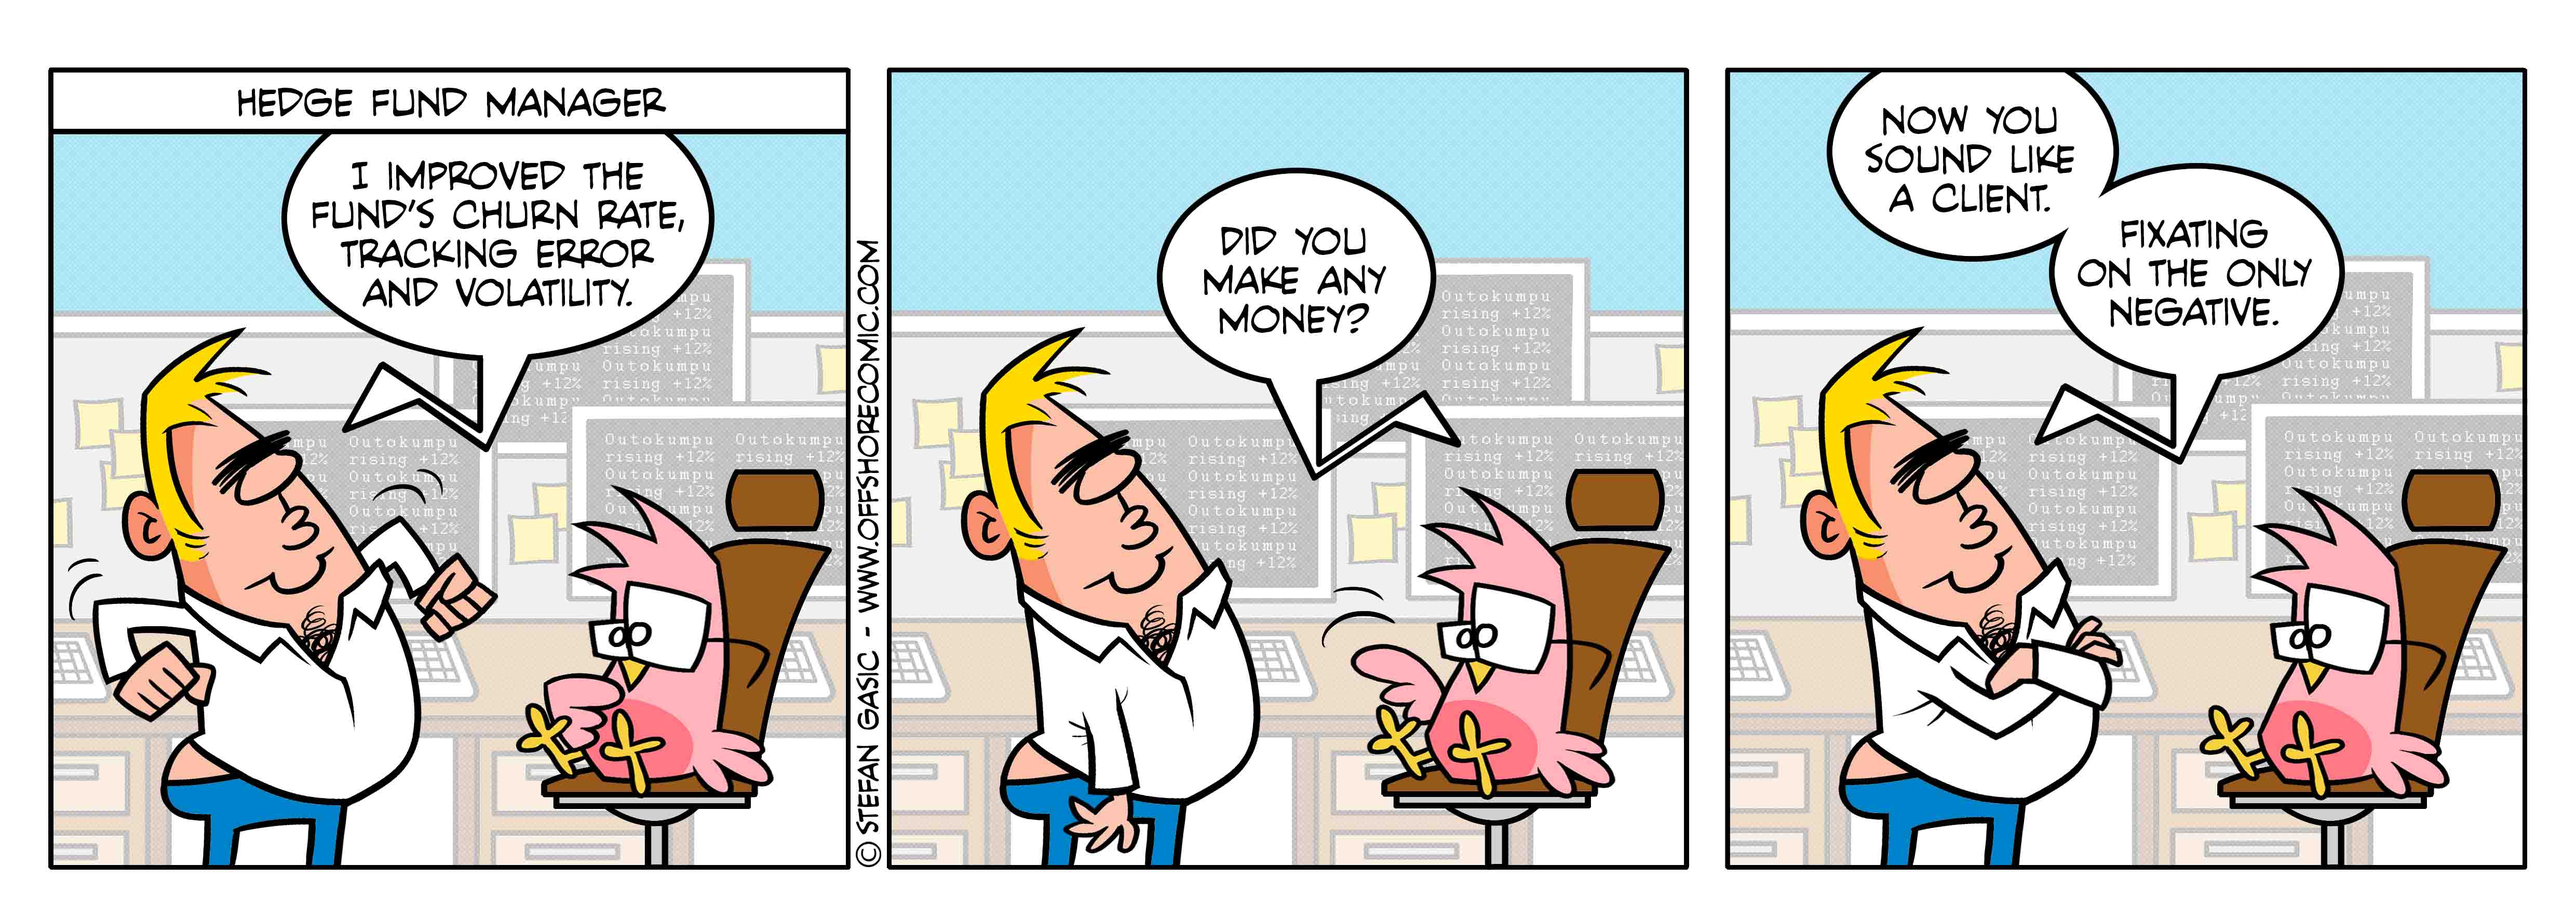
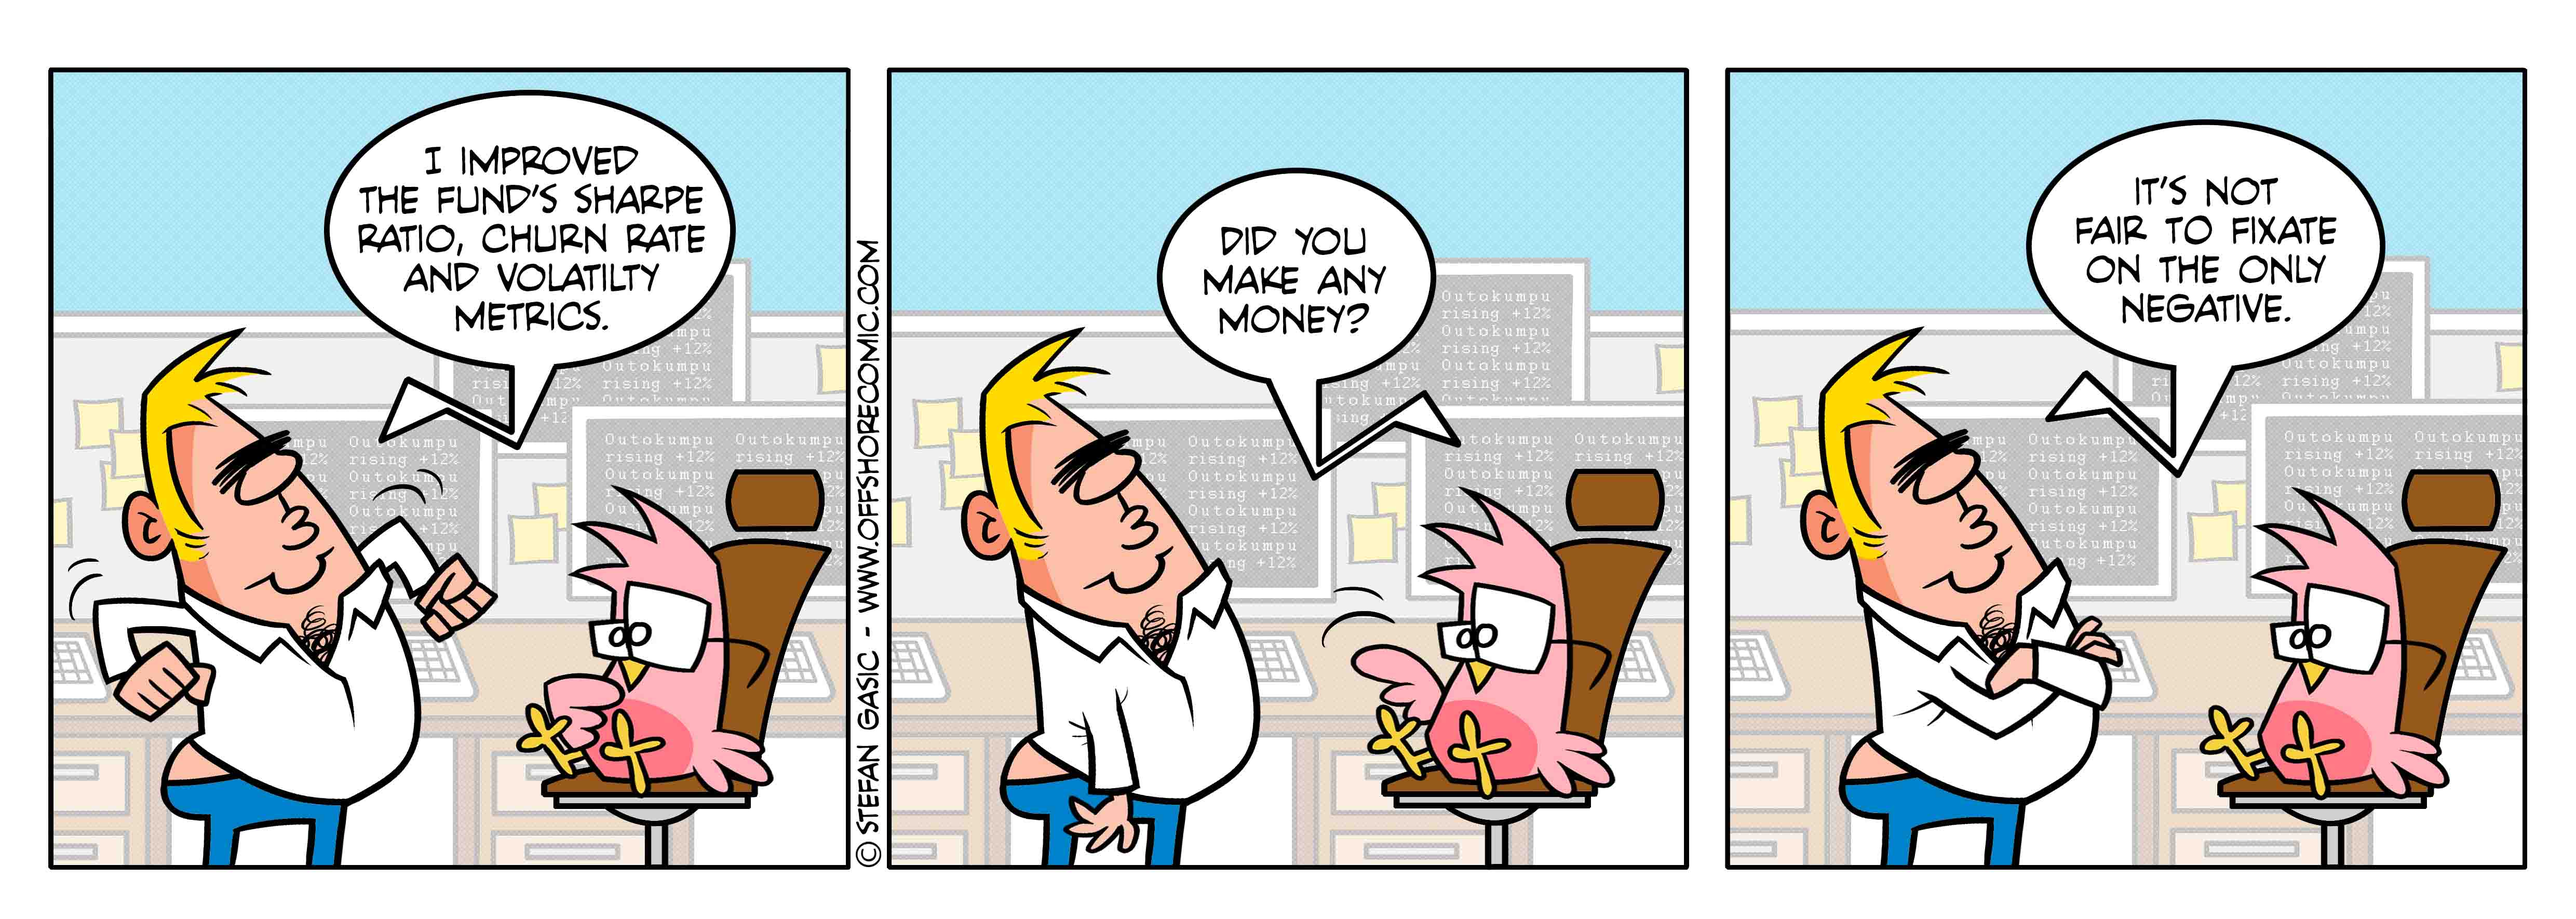
Added a new strip and updated the html and js codes accordingly.

Changed region(s): [[0.0, 0.0621, 0.3437, 0.4972], [0.6874, 0.0621, 0.9373, 0.5282]]

diff --git a/myscripts.js b/myscripts.js
@@ -1,4 +1,4 @@
-var Strips = ["images/S437.jpg","images/S436.jpg","images/S435.jpg","images/S434.jpg","images/S433.jpg","images/S432.jpg","images/S431.jpg","images/S430.jpg","images/S429.jpg","images/S428.jpg","images/S427.jpg","images/S426.jpg","images/S425.jpg","images/S424.jpg","images/S423.jpg","images/S422.jpg","images/S421.jpg","images/S420.jpg","images/S419.jpg","images/S418.jpg","images/S417.jpg","images/S416.jpg","images/S415.jpg","images/S414.jpg","images/S413.jpg","images/S412.jpg","images/S411.jpg","images/S410.jpg","images/S409.jpg","images/S408.jpg","images/S407.jpg","images/S406.jpg","images/S405.jpg","images/S404.jpg","images/S403.jpg","images/S402.jpg","images/S401.jpg","images/S400.jpg","images/S399.jpg","images/S398.jpg","images/S397.jpg","images/S396.jpg","images/S395.jpg","images/S394.jpg","images/S393.jpg","images/S392.jpg","images/S391.jpg","images/S390.jpg","images/S389.jpg","images/S388.jpg","images/S387.jpg","images/S386.jpg","images/S385.jpg","images/S384.jpg","images/S383.jpg","images/S382.jpg","images/S381.jpg","images/S380.jpg","images/S379.jpg","images/S378.jpg","images/S377.jpg","images/S376.jpg","images/S375.jpg","images/S374.jpg","images/S373.jpg","images/S372.jpg","images/S371.jpg","images/S370.jpg","images/S369.jpg","images/S368.jpg","images/S367.jpg","images/S366.jpg","images/S365.jpg","images/S364.jpg","images/S363.jpg","images/S362.jpg","images/S361.jpg","images/S360.jpg","images/S359.jpg","images/S358.jpg","images/S357.jpg","images/S356.jpg","images/S355.jpg","images/S354.jpg","images/S353.jpg","images/S352.jpg","images/S351.jpg","images/S350.jpg","images/S349.jpg","images/S348.jpg","images/S347.jpg","images/S346.jpg","images/S345.jpg","images/S344.jpg","images/S343.jpg","images/S342.jpg","images/S341.jpg","images/S340.jpg","images/S339.jpg","images/S338.jpg","images/S337.jpg","images/S336.jpg","images/S335.jpg","images/S334.jpg","images/S333.jpg","images/S332.jpg","images/S331.jpg","images/S330.jpg","images/S329.jpg","images/S328.jpg","images/S327.jpg","images/S326.jpg","images/S325.jpg","images/S324.jpg","images/S323.jpg","images/S322.jpg","images/S321.jpg","images/S320.jpg","images/S319.jpg","images/S318.jpg","images/S317.jpg","images/S316.jpg","images/S315.jpg","images/S314.jpg","images/S313.jpg","images/S312.jpg","images/S311.jpg","images/S310.jpg","images/S309.jpg","images/S308.jpg","images/S307.jpg","images/S306.jpg","images/S305.jpg","images/S304.jpg","images/S303.jpg","images/S302.jpg","images/S301.jpg","images/S300.jpg","images/S299.jpg","images/S298.jpg","images/S297.jpg","images/S296.jpg","images/S295.jpg","images/S294.jpg","images/S293.jpg","images/S292.jpg","images/S291.jpg","images/S290.jpg","images/S289.jpg","images/S288.jpg","images/S287.jpg","images/S286.jpg","images/S285.jpg","images/S284.jpg","images/S283.jpg","images/S282.jpg","images/S281.jpg","images/S280.jpg","images/S279.jpg","images/S278.jpg","images/S277.jpg","images/S276.jpg","images/S275.jpg","images/S274.jpg","images/S273.jpg","images/S272.jpg","images/S271.jpg","images/S270.jpg","images/S269.jpg","images/S268.jpg","images/S267.jpg","images/S266.jpg","images/S265.jpg","images/S264.jpg","images/S263.jpg","images/S262.jpg","images/S261.jpg","images/S260.jpg","images/S259.jpg","images/S258.jpg","images/S257.jpg","images/S256.jpg","images/S255.jpg","images/S254.jpg","images/S253.jpg","images/S252.jpg","images/S251.jpg","images/S250.jpg","images/S249.jpg","images/S248.jpg","images/S247.jpg","images/S246.jpg","images/S245.jpg","images/S244.jpg","images/S243.jpg","images/S242.jpg","images/S241.jpg","images/S240.jpg","images/S239.jpg","images/S238.jpg","images/S237.jpg","images/S236.jpg","images/S235.jpg","images/S234.jpg","images/S233.jpg","images/S232.jpg","images/S231.jpg","images/S230.jpg","images/S229.jpg","images/S228.jpg","images/S227.jpg","images/S226.jpg","images/S225.jpg","images/S224.jpg","images/S223.jpg","images/S222.jpg","images/S221.jpg","images/S220.jpg","images/S219.jpg","images/S218.jpg","images/S217.jpg","images/S216.jpg","images/S215.jpg","images/S214.jpg","images/S213.jpg","images/S212.jpg","images/S211.jpg","images/S210.jpg","images/S209.jpg","images/S208.jpg","images/S207.jpg","images/S206.jpg","images/S205.jpg","images/S204.jpg","images/S203.jpg","images/S202.jpg","images/S201.jpg","images/S200.jpg","images/S199.jpg","images/S198.jpg","images/S197.jpg","images/S196.jpg","images/S195.jpg","images/S194.jpg","images/S193.jpg","images/S192.jpg","images/S191.jpg","images/S190.jpg","images/S189.jpg","images/S188.jpg","images/S187.jpg","images/S186.jpg","images/S185.jpg","images/S184.jpg","images/S183.jpg","images/S182.jpg","images/S181.jpg","images/S180.jpg","images/S179.jpg","images/S178.jpg","images/S177.jpg","images/S176.jpg","images/S175.jpg","images/S174.jpg","images/S173.jpg","images/S172.jpg","images/S171.jpg","images/S170.jpg","images/S169.jpg","images/S168.jpg","images/S167.jpg","images/S166.jpg","images/S165.jpg","images/S164.jpg","images/S163.jpg","images/S162.jpg","images/S161.jpg","images/S160.jpg","images/S159.jpg","images/S158.jpg","images/S157.jpg","images/S156.jpg","images/S155.jpg","images/S154.jpg","images/S153.jpg","images/S152.jpg","images/S151.jpg","images/S150.jpg","images/S149.jpg","images/S148.jpg","images/S147.jpg","images/S146.jpg","images/S145.jpg","images/S144.jpg","images/S143.jpg","images/S142.jpg","images/S141.jpg","images/S140.jpg","images/S139.jpg","images/S138.jpg","images/S137.jpg","images/S136.jpg","images/S135.jpg","images/S134.jpg","images/S133.jpg","images/S132.jpg","images/S131.jpg","images/S130.jpg","images/S129.jpg","images/S128.jpg","images/S127.jpg","images/S126.jpg","images/S125.jpg","images/S124.jpg","images/S123.jpg","images/S122.jpg","images/S121.jpg","images/S120.jpg","images/S119.jpg","images/S118.jpg","images/S117.jpg","images/S116.jpg","images/S115.jpg","images/S114.jpg","images/S113.jpg","images/S112.jpg","images/S111.jpg","images/S110.jpg","images/S109.jpg","images/S108.jpg","images/S107.jpg","images/S106.jpg","images/S105.jpg","images/S104.jpg","images/S103.jpg","images/S102.jpg","images/S101.jpg","images/S100.jpg","images/S99.jpg","images/S98.jpg","images/S97.jpg","images/S96.jpg","images/S95.jpg","images/S94.jpg","images/S93.jpg","images/S92.jpg","images/S91.jpg","images/S90.jpg","images/S89.jpg","images/S88.jpg","images/S87.jpg","images/S86.jpg","images/S85.jpg","images/S84.jpg","images/S83.jpg","images/S82.jpg","images/S81.jpg","images/S80.jpg","images/S79.jpg","images/S78.jpg","images/S77.jpg","images/S76.jpg","images/S75.jpg","images/S74.jpg","images/S73.jpg","images/S72.jpg","images/S71.jpg","images/S70.jpg","images/S69.jpg","images/S68.jpg","images/S67.jpg","images/S66.jpg","images/S65.jpg","images/S64.jpg","images/S63.jpg","images/S62.jpg","images/S61.jpg","images/S60.jpg","images/S59.jpg","images/S58.jpg","images/S57.jpg","images/S56.jpg","images/S55.jpg","images/S54.jpg","images/S53.jpg","images/S52.jpg","images/S51.jpg","images/S50.jpg","images/S49.jpg","images/S48.jpg","images/S47.jpg","images/S46.jpg","images/S45.jpg","images/S44.jpg","images/S43.jpg","images/S42.jpg","images/S41.jpg","images/S40.jpg","images/S39.jpg","images/S38.jpg","images/S37.jpg","images/S36.jpg","images/S35.jpg","images/S34.jpg","images/S33.jpg","images/S32.jpg","images/S31.jpg","images/S30.jpg","images/S29.jpg","images/S28.jpg","images/S27.jpg","images/S26.jpg","images/S25.jpg","images/S24.jpg","images/S23.jpg","images/S22.jpg","images/S21.jpg","images/S20.jpg","images/S19.jpg","images/S18.jpg","images/S17.jpg","images/S16.jpg","images/S15.jpg","images/S14.jpg","images/S13.jpg","images/S12.jpg","images/S11.jpg","images/S10.jpg","images/S9.jpg","images/S8.jpg","images/S7.jpg","images/S6.jpg","images/S5.jpg","images/S4.jpg","images/S3.jpg","images/S2.jpg","images/S1.jpg"];
+var Strips = ["images/S438.jpg","images/S437.jpg","images/S436.jpg","images/S435.jpg","images/S434.jpg","images/S433.jpg","images/S432.jpg","images/S431.jpg","images/S430.jpg","images/S429.jpg","images/S428.jpg","images/S427.jpg","images/S426.jpg","images/S425.jpg","images/S424.jpg","images/S423.jpg","images/S422.jpg","images/S421.jpg","images/S420.jpg","images/S419.jpg","images/S418.jpg","images/S417.jpg","images/S416.jpg","images/S415.jpg","images/S414.jpg","images/S413.jpg","images/S412.jpg","images/S411.jpg","images/S410.jpg","images/S409.jpg","images/S408.jpg","images/S407.jpg","images/S406.jpg","images/S405.jpg","images/S404.jpg","images/S403.jpg","images/S402.jpg","images/S401.jpg","images/S400.jpg","images/S399.jpg","images/S398.jpg","images/S397.jpg","images/S396.jpg","images/S395.jpg","images/S394.jpg","images/S393.jpg","images/S392.jpg","images/S391.jpg","images/S390.jpg","images/S389.jpg","images/S388.jpg","images/S387.jpg","images/S386.jpg","images/S385.jpg","images/S384.jpg","images/S383.jpg","images/S382.jpg","images/S381.jpg","images/S380.jpg","images/S379.jpg","images/S378.jpg","images/S377.jpg","images/S376.jpg","images/S375.jpg","images/S374.jpg","images/S373.jpg","images/S372.jpg","images/S371.jpg","images/S370.jpg","images/S369.jpg","images/S368.jpg","images/S367.jpg","images/S366.jpg","images/S365.jpg","images/S364.jpg","images/S363.jpg","images/S362.jpg","images/S361.jpg","images/S360.jpg","images/S359.jpg","images/S358.jpg","images/S357.jpg","images/S356.jpg","images/S355.jpg","images/S354.jpg","images/S353.jpg","images/S352.jpg","images/S351.jpg","images/S350.jpg","images/S349.jpg","images/S348.jpg","images/S347.jpg","images/S346.jpg","images/S345.jpg","images/S344.jpg","images/S343.jpg","images/S342.jpg","images/S341.jpg","images/S340.jpg","images/S339.jpg","images/S338.jpg","images/S337.jpg","images/S336.jpg","images/S335.jpg","images/S334.jpg","images/S333.jpg","images/S332.jpg","images/S331.jpg","images/S330.jpg","images/S329.jpg","images/S328.jpg","images/S327.jpg","images/S326.jpg","images/S325.jpg","images/S324.jpg","images/S323.jpg","images/S322.jpg","images/S321.jpg","images/S320.jpg","images/S319.jpg","images/S318.jpg","images/S317.jpg","images/S316.jpg","images/S315.jpg","images/S314.jpg","images/S313.jpg","images/S312.jpg","images/S311.jpg","images/S310.jpg","images/S309.jpg","images/S308.jpg","images/S307.jpg","images/S306.jpg","images/S305.jpg","images/S304.jpg","images/S303.jpg","images/S302.jpg","images/S301.jpg","images/S300.jpg","images/S299.jpg","images/S298.jpg","images/S297.jpg","images/S296.jpg","images/S295.jpg","images/S294.jpg","images/S293.jpg","images/S292.jpg","images/S291.jpg","images/S290.jpg","images/S289.jpg","images/S288.jpg","images/S287.jpg","images/S286.jpg","images/S285.jpg","images/S284.jpg","images/S283.jpg","images/S282.jpg","images/S281.jpg","images/S280.jpg","images/S279.jpg","images/S278.jpg","images/S277.jpg","images/S276.jpg","images/S275.jpg","images/S274.jpg","images/S273.jpg","images/S272.jpg","images/S271.jpg","images/S270.jpg","images/S269.jpg","images/S268.jpg","images/S267.jpg","images/S266.jpg","images/S265.jpg","images/S264.jpg","images/S263.jpg","images/S262.jpg","images/S261.jpg","images/S260.jpg","images/S259.jpg","images/S258.jpg","images/S257.jpg","images/S256.jpg","images/S255.jpg","images/S254.jpg","images/S253.jpg","images/S252.jpg","images/S251.jpg","images/S250.jpg","images/S249.jpg","images/S248.jpg","images/S247.jpg","images/S246.jpg","images/S245.jpg","images/S244.jpg","images/S243.jpg","images/S242.jpg","images/S241.jpg","images/S240.jpg","images/S239.jpg","images/S238.jpg","images/S237.jpg","images/S236.jpg","images/S235.jpg","images/S234.jpg","images/S233.jpg","images/S232.jpg","images/S231.jpg","images/S230.jpg","images/S229.jpg","images/S228.jpg","images/S227.jpg","images/S226.jpg","images/S225.jpg","images/S224.jpg","images/S223.jpg","images/S222.jpg","images/S221.jpg","images/S220.jpg","images/S219.jpg","images/S218.jpg","images/S217.jpg","images/S216.jpg","images/S215.jpg","images/S214.jpg","images/S213.jpg","images/S212.jpg","images/S211.jpg","images/S210.jpg","images/S209.jpg","images/S208.jpg","images/S207.jpg","images/S206.jpg","images/S205.jpg","images/S204.jpg","images/S203.jpg","images/S202.jpg","images/S201.jpg","images/S200.jpg","images/S199.jpg","images/S198.jpg","images/S197.jpg","images/S196.jpg","images/S195.jpg","images/S194.jpg","images/S193.jpg","images/S192.jpg","images/S191.jpg","images/S190.jpg","images/S189.jpg","images/S188.jpg","images/S187.jpg","images/S186.jpg","images/S185.jpg","images/S184.jpg","images/S183.jpg","images/S182.jpg","images/S181.jpg","images/S180.jpg","images/S179.jpg","images/S178.jpg","images/S177.jpg","images/S176.jpg","images/S175.jpg","images/S174.jpg","images/S173.jpg","images/S172.jpg","images/S171.jpg","images/S170.jpg","images/S169.jpg","images/S168.jpg","images/S167.jpg","images/S166.jpg","images/S165.jpg","images/S164.jpg","images/S163.jpg","images/S162.jpg","images/S161.jpg","images/S160.jpg","images/S159.jpg","images/S158.jpg","images/S157.jpg","images/S156.jpg","images/S155.jpg","images/S154.jpg","images/S153.jpg","images/S152.jpg","images/S151.jpg","images/S150.jpg","images/S149.jpg","images/S148.jpg","images/S147.jpg","images/S146.jpg","images/S145.jpg","images/S144.jpg","images/S143.jpg","images/S142.jpg","images/S141.jpg","images/S140.jpg","images/S139.jpg","images/S138.jpg","images/S137.jpg","images/S136.jpg","images/S135.jpg","images/S134.jpg","images/S133.jpg","images/S132.jpg","images/S131.jpg","images/S130.jpg","images/S129.jpg","images/S128.jpg","images/S127.jpg","images/S126.jpg","images/S125.jpg","images/S124.jpg","images/S123.jpg","images/S122.jpg","images/S121.jpg","images/S120.jpg","images/S119.jpg","images/S118.jpg","images/S117.jpg","images/S116.jpg","images/S115.jpg","images/S114.jpg","images/S113.jpg","images/S112.jpg","images/S111.jpg","images/S110.jpg","images/S109.jpg","images/S108.jpg","images/S107.jpg","images/S106.jpg","images/S105.jpg","images/S104.jpg","images/S103.jpg","images/S102.jpg","images/S101.jpg","images/S100.jpg","images/S99.jpg","images/S98.jpg","images/S97.jpg","images/S96.jpg","images/S95.jpg","images/S94.jpg","images/S93.jpg","images/S92.jpg","images/S91.jpg","images/S90.jpg","images/S89.jpg","images/S88.jpg","images/S87.jpg","images/S86.jpg","images/S85.jpg","images/S84.jpg","images/S83.jpg","images/S82.jpg","images/S81.jpg","images/S80.jpg","images/S79.jpg","images/S78.jpg","images/S77.jpg","images/S76.jpg","images/S75.jpg","images/S74.jpg","images/S73.jpg","images/S72.jpg","images/S71.jpg","images/S70.jpg","images/S69.jpg","images/S68.jpg","images/S67.jpg","images/S66.jpg","images/S65.jpg","images/S64.jpg","images/S63.jpg","images/S62.jpg","images/S61.jpg","images/S60.jpg","images/S59.jpg","images/S58.jpg","images/S57.jpg","images/S56.jpg","images/S55.jpg","images/S54.jpg","images/S53.jpg","images/S52.jpg","images/S51.jpg","images/S50.jpg","images/S49.jpg","images/S48.jpg","images/S47.jpg","images/S46.jpg","images/S45.jpg","images/S44.jpg","images/S43.jpg","images/S42.jpg","images/S41.jpg","images/S40.jpg","images/S39.jpg","images/S38.jpg","images/S37.jpg","images/S36.jpg","images/S35.jpg","images/S34.jpg","images/S33.jpg","images/S32.jpg","images/S31.jpg","images/S30.jpg","images/S29.jpg","images/S28.jpg","images/S27.jpg","images/S26.jpg","images/S25.jpg","images/S24.jpg","images/S23.jpg","images/S22.jpg","images/S21.jpg","images/S20.jpg","images/S19.jpg","images/S18.jpg","images/S17.jpg","images/S16.jpg","images/S15.jpg","images/S14.jpg","images/S13.jpg","images/S12.jpg","images/S11.jpg","images/S10.jpg","images/S9.jpg","images/S8.jpg","images/S7.jpg","images/S6.jpg","images/S5.jpg","images/S4.jpg","images/S3.jpg","images/S2.jpg","images/S1.jpg"];
 
 var Current = 0;
 var myStrip = null;

diff --git a/index.html b/index.html
@@ -39,7 +39,7 @@
         <div class="count">
           <strong><span id="currentCount"></span></strong> out of <strong><span id="totalCount"></span></strong>
         </div>
-		<div class="wrap-item1"><img src="images/S437.jpg" id="Strip"/></div>
+		<div class="wrap-item1"><img src="images/S438.jpg" id="Strip"/></div>
 		<div class="wrapper3">
 			<div class="wrap-item3">
 			<button class="button" onClick="Last();">&lsaquo;&lsaquo;</button>
